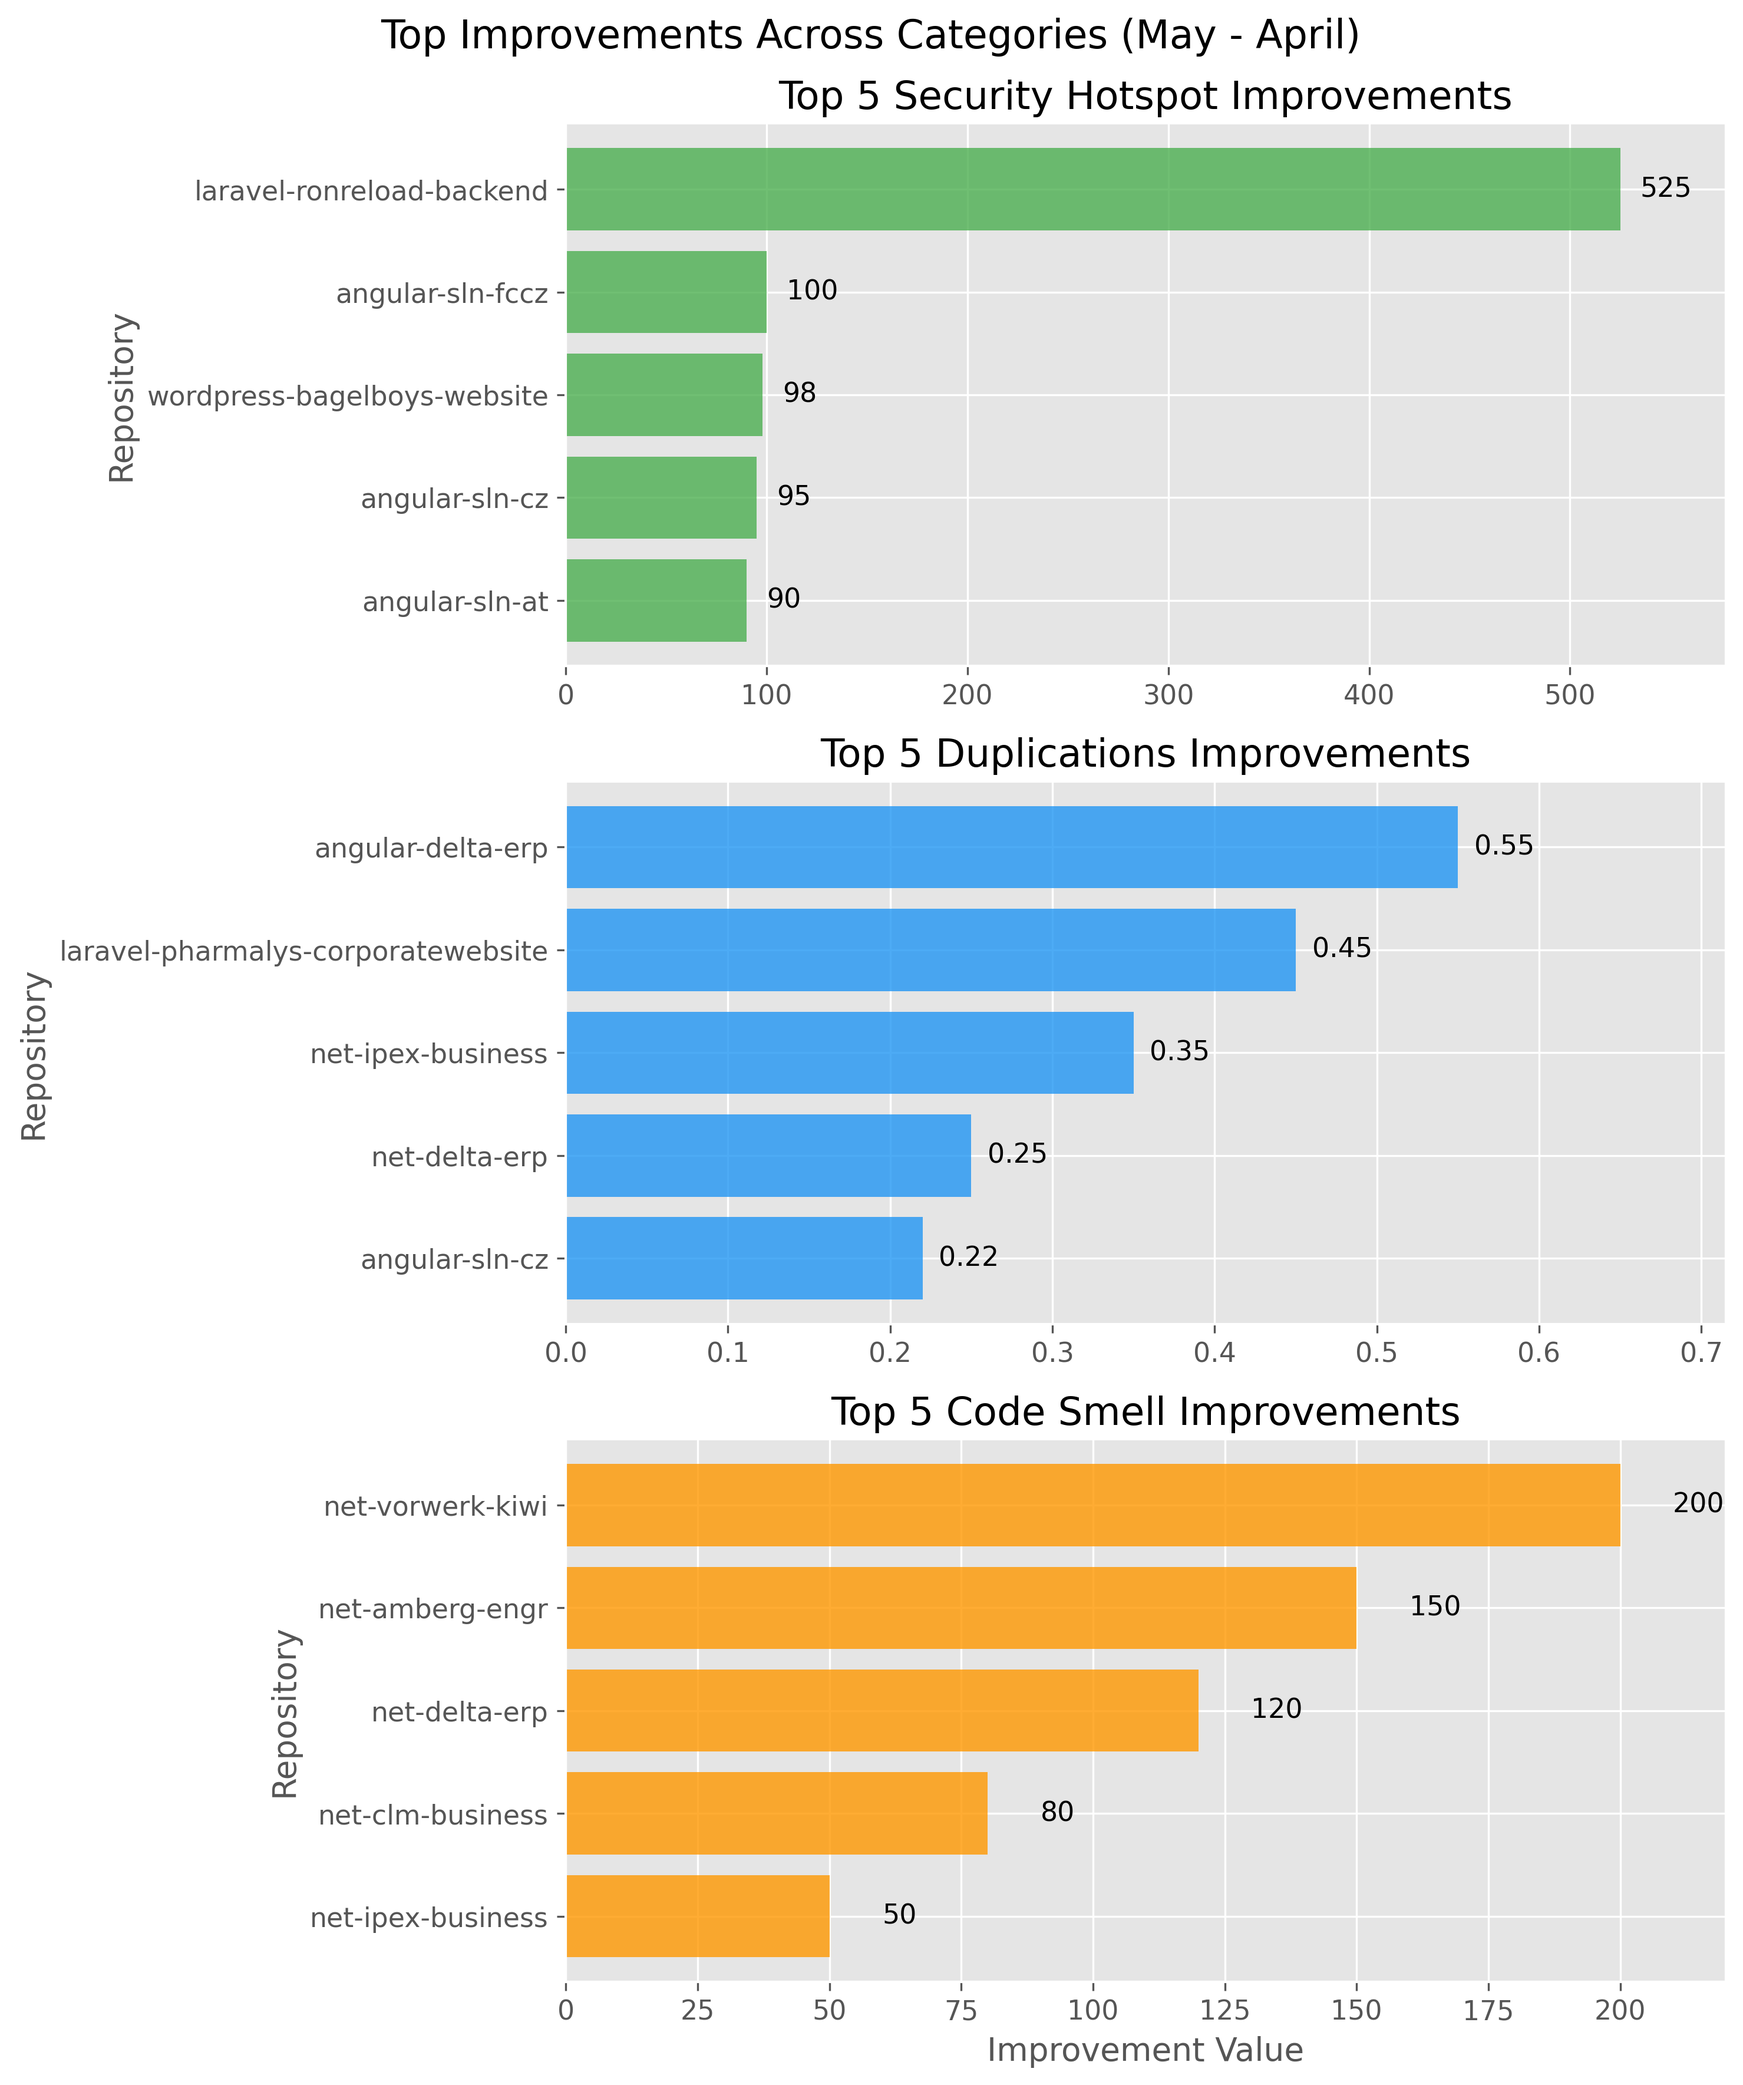
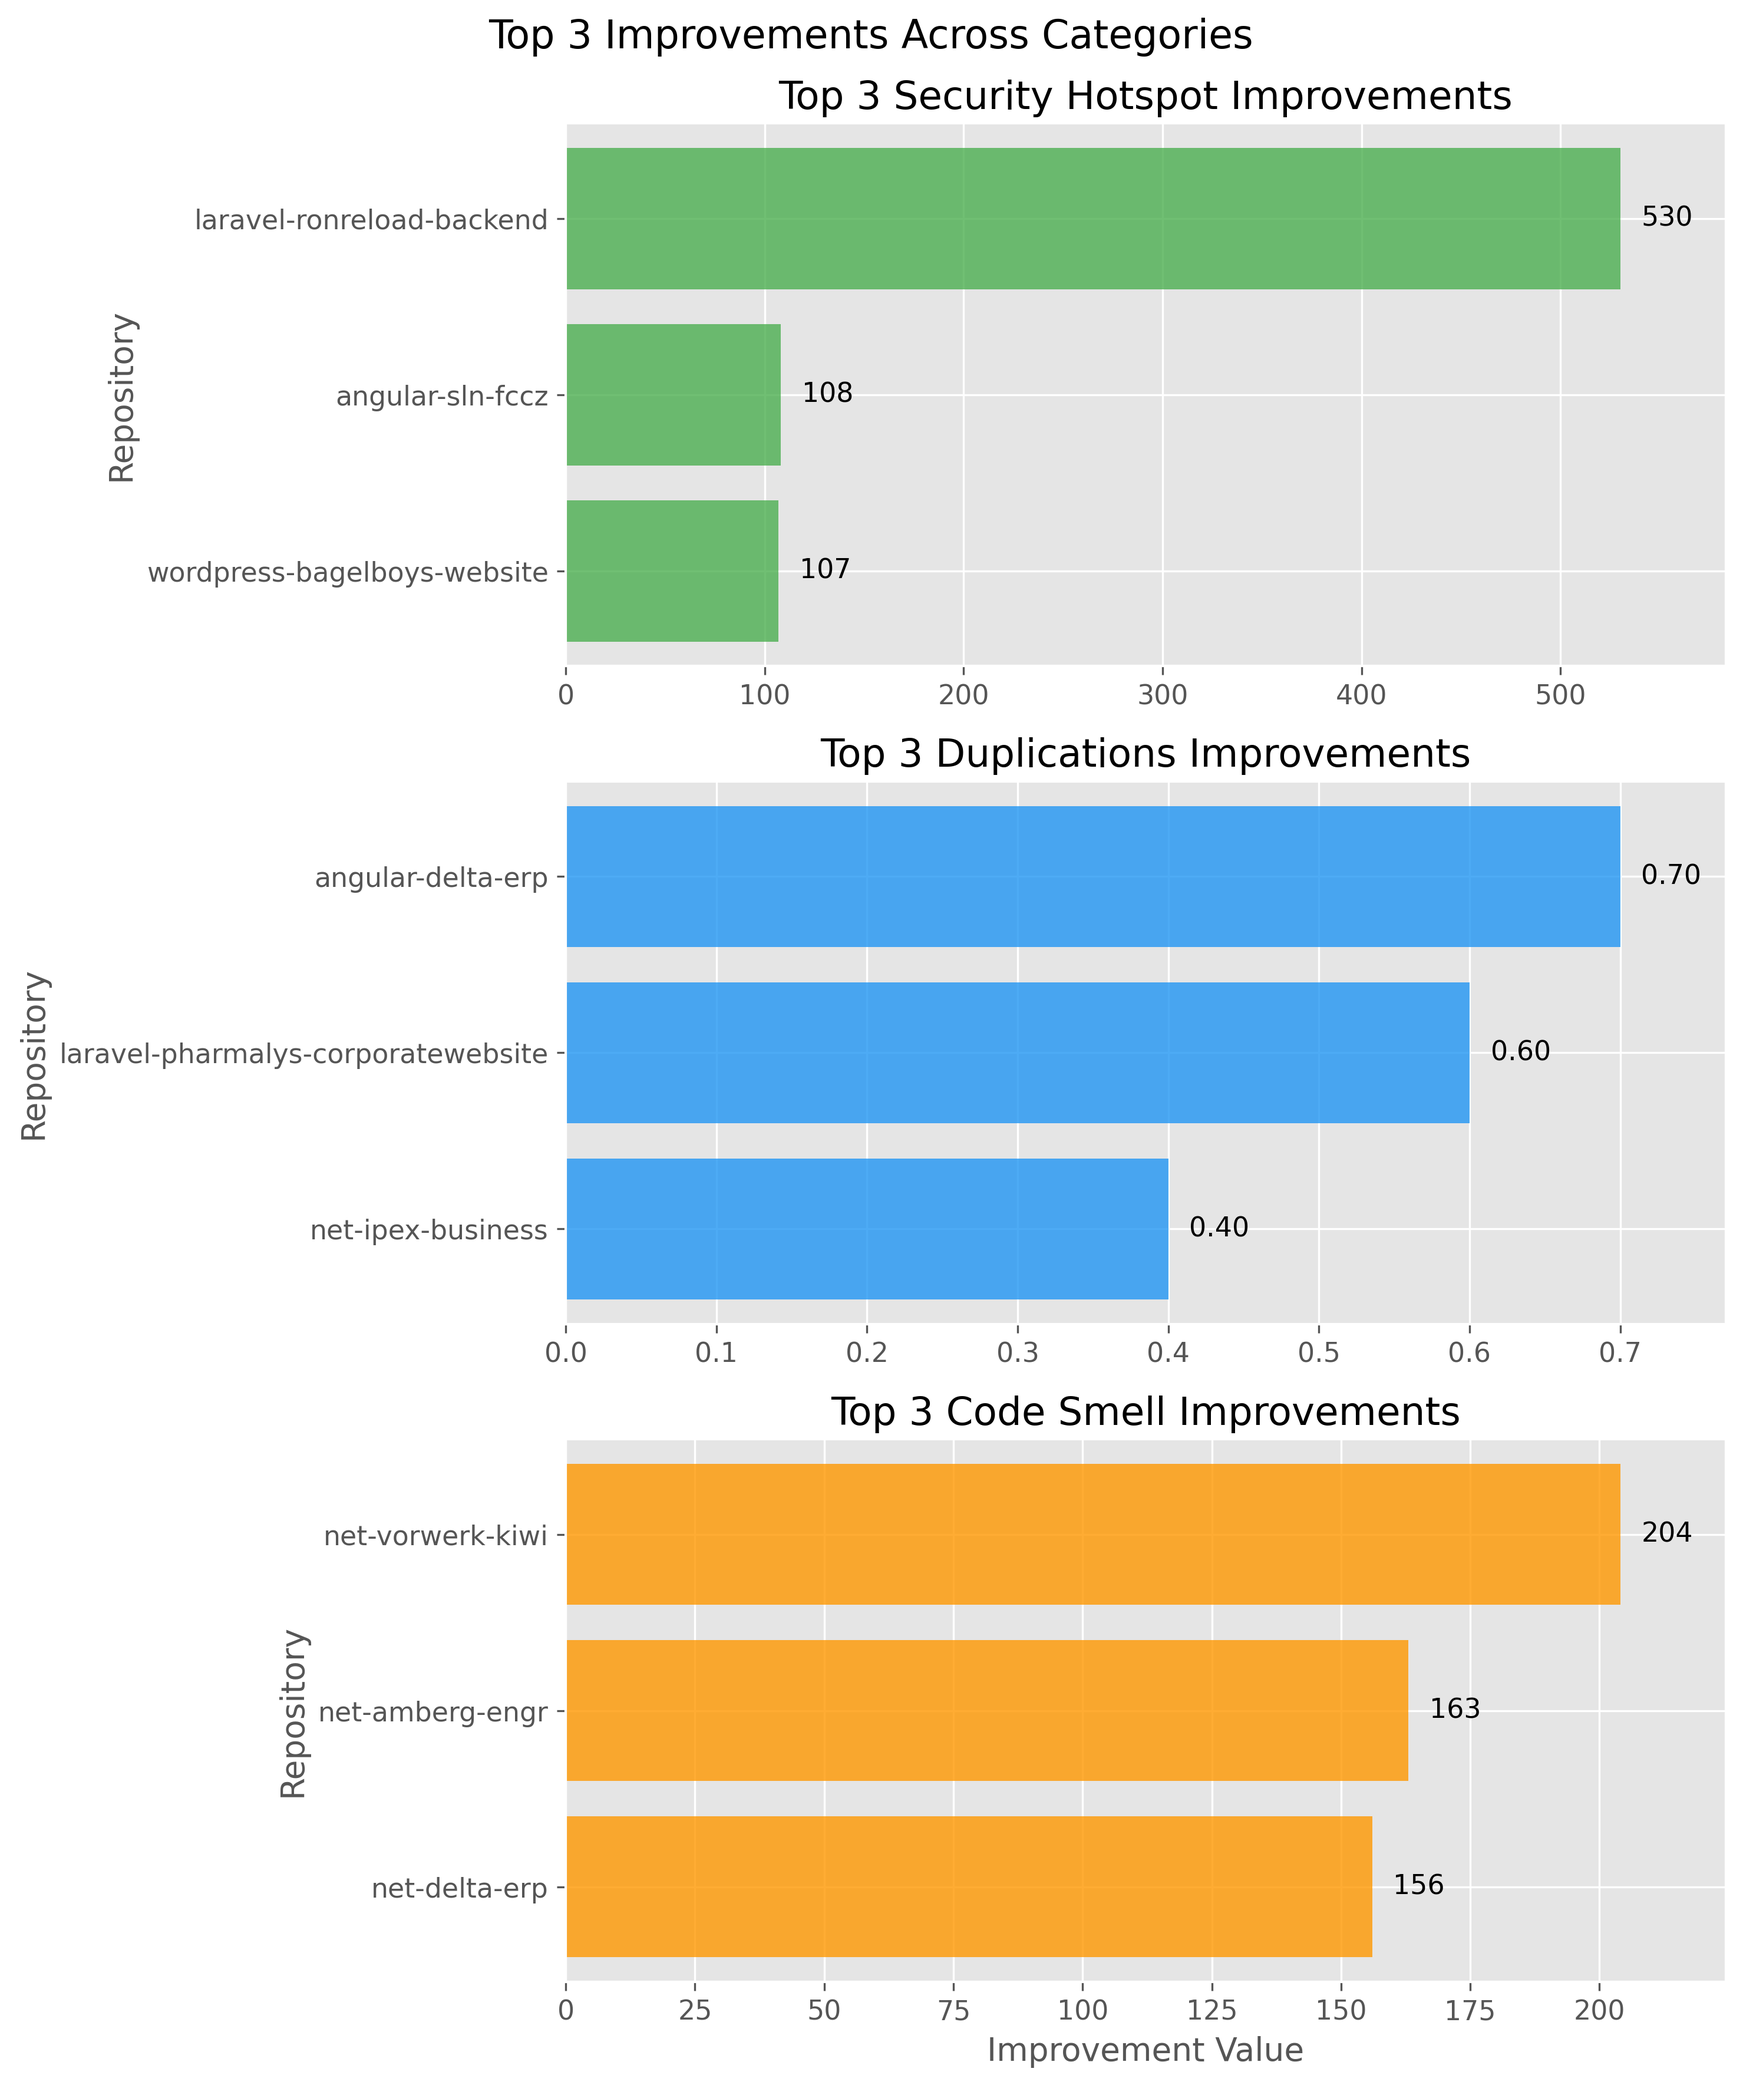
new 02

diff --git a/visualize_improvements.py b/visualize_improvements.py
@@ -1,0 +1,154 @@
+import matplotlib.pyplot as plt
+import pandas as pd
+import os
+
+def read_excel_data(security_file, duplications_file, code_smell_file):
+    """
+    Read data from three Excel files and extract top improvements.
+    """
+    # Read Excel files
+    sec_df = pd.read_excel(security_file)
+    dup_df = pd.read_excel(duplications_file)
+    smell_df = pd.read_excel(code_smell_file)
+    
+    # Calculate differences (improvements)
+    sec_df['Improvement'] = sec_df['Security Hotspot (first)'] - sec_df['Security Hotspot (second)']
+    dup_df['Improvement'] = dup_df['Duplications (first)'] - dup_df['Duplications (second)']
+    smell_df['Improvement'] = smell_df['Code Smell (first)'] - smell_df['Code Smell (second)']
+    
+    # Filter for positive improvements only (first > second indicates improvement)
+    sec_improvements = sec_df[sec_df['Improvement'] > 0].sort_values('Improvement', ascending=False)
+    dup_improvements = dup_df[dup_df['Improvement'] > 0].sort_values('Improvement', ascending=False)
+    smell_improvements = smell_df[smell_df['Improvement'] > 0].sort_values('Improvement', ascending=False)
+    
+    # Get top improvements (up to 5 per category)
+    top_security = sec_improvements.head(5)
+    top_duplications = dup_improvements.head(5)
+    top_code_smell = smell_improvements.head(5)
+    
+    # Extract data for visualization
+    data = {
+        'Security Hotspot': dict(zip(top_security['Clean Name'], top_security['Improvement'])),
+        'Duplications': dict(zip(top_duplications['Clean Name'], top_duplications['Improvement'])),
+        'Code Smell': dict(zip(top_code_smell['Clean Name'], top_code_smell['Improvement']))
+    }
+    
+    return data
+
+def visualize_improvements(data, top_n=3):
+    """
+    Create visualizations for top improvements across categories.
+    """
+    # Colors
+    colors = {
+        'Security Hotspot': '#4CAF50',  # Green
+        'Duplications': '#2196F3',      # Blue
+        'Code Smell': '#FF9800'         # Orange
+    }
+    
+    # Set style and increase font size for better readability
+    plt.style.use('ggplot')
+    plt.rcParams.update({'font.size': 11})
+    
+    # Take only top N for each category
+    for category in data:
+        # Sort items by value in descending order and keep only top N
+        sorted_items = sorted(data[category].items(), key=lambda x: x[1], reverse=True)[:top_n]
+        data[category] = dict(sorted_items)
+    
+    # Create a single figure with three subplots
+    fig, axes = plt.subplots(3, 1, figsize=(10, 12), sharex=False)
+    fig.suptitle(f'Top {top_n} Improvements Across Categories', fontsize=16, y=0.98)
+    
+    # Plot each category
+    for i, (category, values) in enumerate(data.items()):
+        names = list(values.keys())
+        values_list = list(values.values())
+        
+        # Create horizontal bar chart
+        bars = axes[i].barh(names, values_list, color=colors[category], alpha=0.8)
+        axes[i].set_title(f'Top {top_n} {category} Improvements')
+        
+        # Add value labels on the bars
+        for j, v in enumerate(values_list):
+            if category == 'Duplications':
+                # Format duplication values differently due to their small scale
+                axes[i].text(v + (max(values_list) * 0.02), j, f'{v:.2f}', va='center')
+            else:
+                axes[i].text(v + (max(values_list) * 0.02), j, f'{v}', va='center')
+        
+        axes[i].set_ylabel('Repository')
+        axes[i].invert_yaxis()  # Highest value at the top
+        
+        # Set appropriate x-axis limits
+        axes[i].set_xlim(0, max(values_list) * 1.1)
+    
+    # Set the bottom x-axis label
+    axes[2].set_xlabel('Improvement Value')
+    
+    # Adjust layout
+    plt.tight_layout()
+    plt.subplots_adjust(top=0.93)
+    
+    # Save figure
+    plt.savefig('top_improvements_by_category.png', dpi=300, bbox_inches='tight')
+    
+    # Create a single combined chart
+    plt.figure(figsize=(12, 10))
+    
+    # Prepare combined data
+    all_data = []
+    for category, repo_data in data.items():
+        for repo, value in repo_data.items():
+            # For display purposes, scale up duplication values
+            display_value = value * 100 if category == 'Duplications' else value
+            all_data.append({
+                'Repository': repo,
+                'Value': value,
+                'Category': category,
+                'DisplayValue': display_value
+            })
+    
+    df = pd.DataFrame(all_data)
+    
+    # Sort by category
+    df = df.sort_values(by=['Category', 'Value'], ascending=[True, False])
+    
+    # Create color mapping
+    color_list = [colors[cat] for cat in df['Category']]
+    
+    # Plot combined chart
+    plt.figure(figsize=(12, 10))
+    bars = plt.barh(range(len(df)), df['DisplayValue'], color=color_list, alpha=0.8)
+    plt.yticks(range(len(df)), df['Repository'])
+    plt.gca().invert_yaxis()  # Highest values at top
+    plt.xlabel('Improvement Value')
+    plt.title(f'Top {top_n} Improvements Across Categories', fontsize=16)
+    
+    # Add a note about duplications scaling
+    plt.figtext(0.5, 0.01, 'Note: Duplication values are scaled (x100) for better visibility', 
+                ha='center', fontsize=10, style='italic')
+    
+    # Create legend
+    handles = [plt.Rectangle((0,0),1,1, color=colors[cat], alpha=0.8) for cat in colors]
+    plt.legend(handles, list(colors.keys()), loc='lower right')
+    
+    plt.tight_layout()
+    plt.savefig('top_improvements_combined.png', dpi=300, bbox_inches='tight')
+    
+    print("Visualization completed! Two images have been saved:")
+    print("1. top_improvements_by_category.png - Three separate charts")
+    print("2. top_improvements_combined.png - Combined chart with all improvements")
+
+# Example usage
+if __name__ == "__main__":
+    # File paths - update these to your actual Excel files
+    security_file = "Security_Hotspot_comparison.xlsx"
+    duplications_file = "Duplications_comparison.xlsx"
+    code_smell_file = "Code_Smell_comparison.xlsx"
+    
+    # Read data from Excel files
+    data = read_excel_data(security_file, duplications_file, code_smell_file)
+    
+    # Create visualizations showing top 3 improvements per category
+    visualize_improvements(data, top_n=3)
